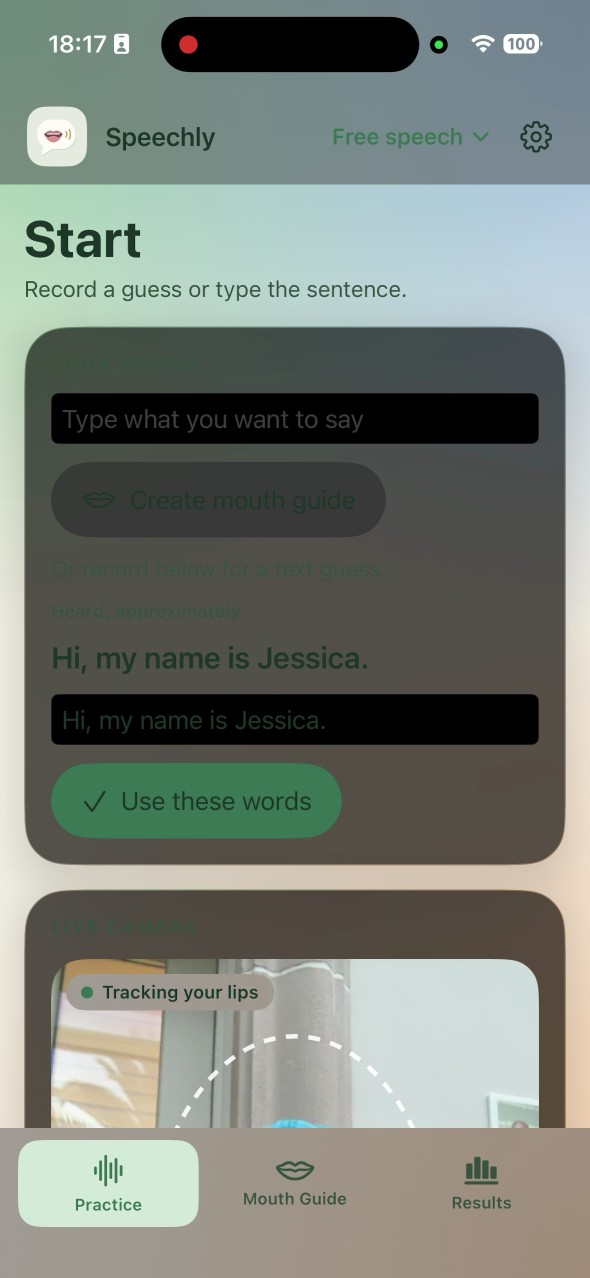
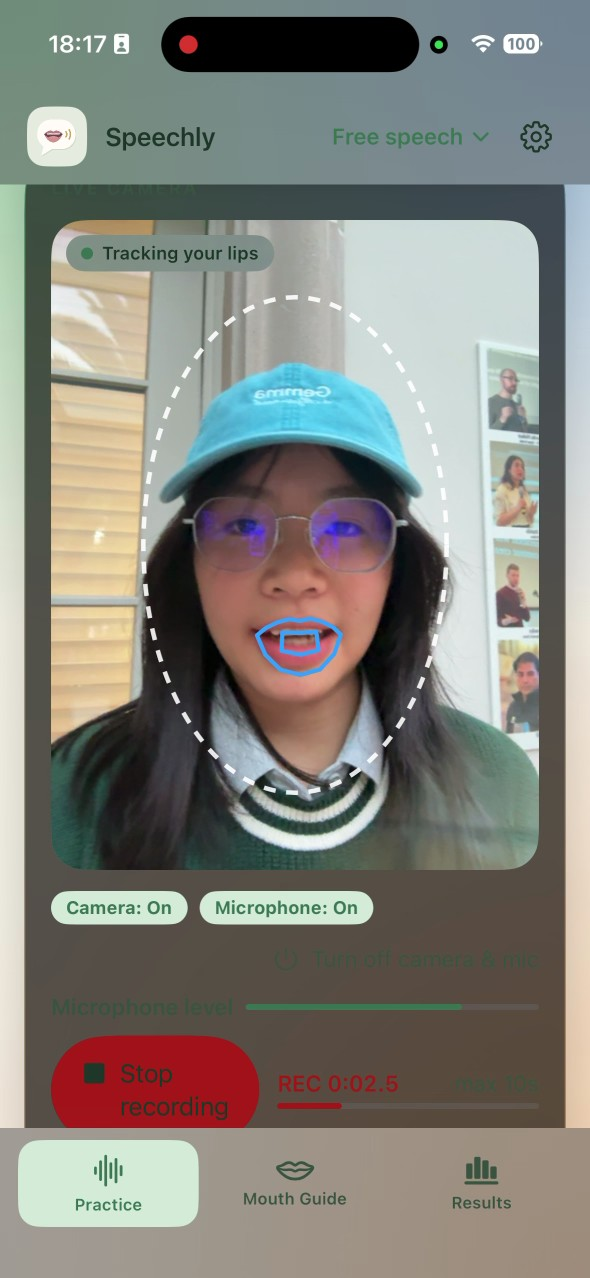
Show live speaker in Practice screenshot

diff --git a/README.md b/README.md
@@ -31,7 +31,7 @@ Three frames from the native iPhone recording show the full practice flow:
 <table>
   <tr><th>1 · Practice</th><th>2 · Mouth Guide</th><th>3 · Results</th></tr>
   <tr>
-    <td><img src="docs/assets/app-practice.jpg" alt="Practice screen showing the editable speech recognition guess and confirmed words" width="220"></td>
+    <td><img src="docs/assets/app-practice.jpg" alt="Practice screen showing a woman recording speech while a blue outline tracks her lips" width="220"></td>
     <td><img src="docs/assets/app-mouth-guide.jpg" alt="Mouth Guide screen highlighting a word beside the animated reference mouth" width="220"></td>
     <td><img src="docs/assets/app-results.jpg" alt="Results screen showing a voice trace and a suggested next practice step" width="220"></td>
   </tr>
